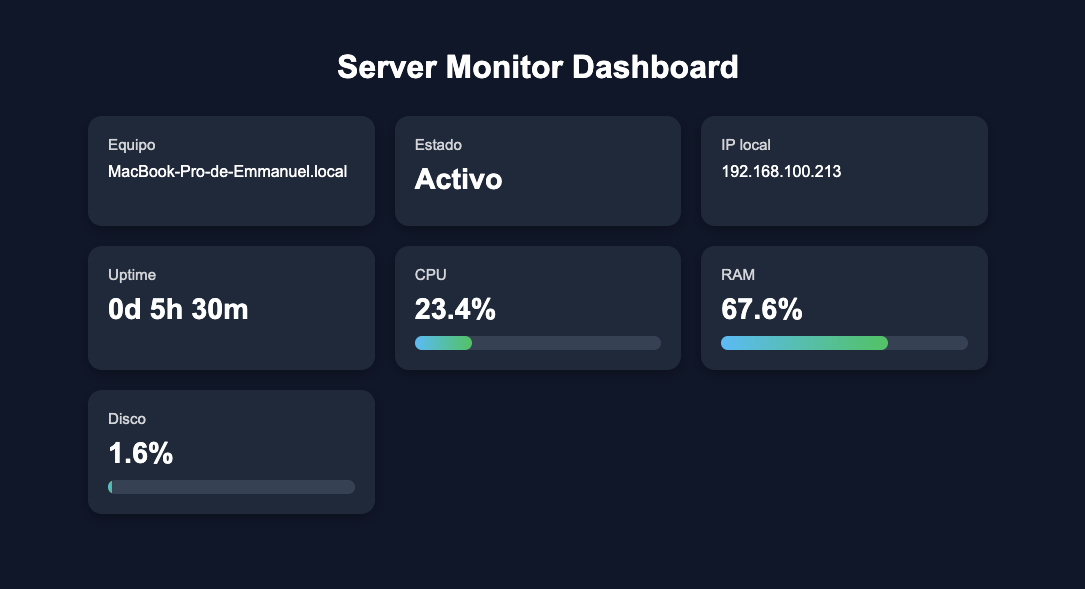
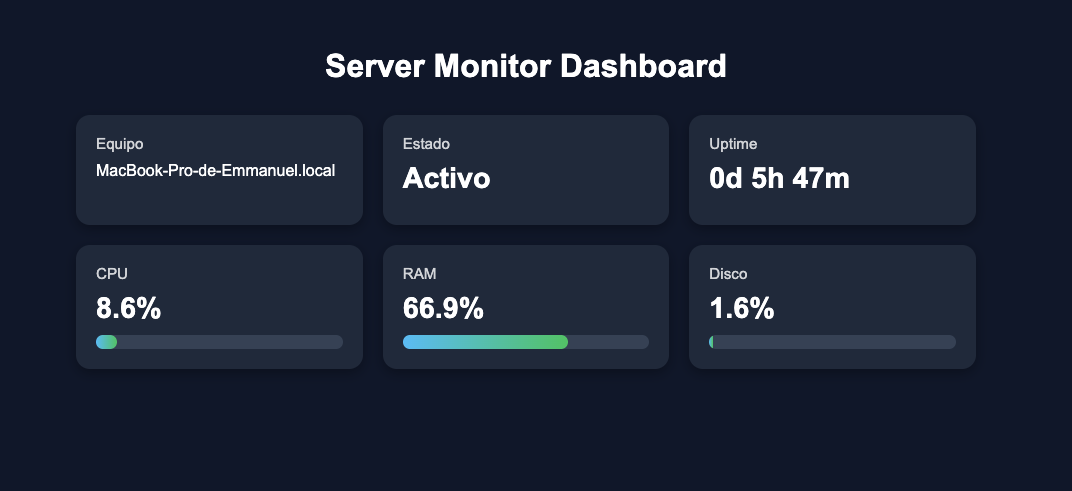
Update dashboard UI and add clean preview image

diff --git a/templates/index.html b/templates/index.html
@@ -86,12 +86,7 @@
         <div id="status" class="value">Cargando...</div>
       </div>
 
-      <div class="card">
-        <div class="label">IP local</div>
-        <div id="ip" class="value small">Cargando...</div>
-      </div>
-
-      <div class="card">
+       <div class="card">
         <div class="label">Uptime</div>
         <div id="uptime" class="value">Cargando...</div>
       </div>
@@ -129,8 +124,7 @@
 
       document.getElementById("hostname").textContent = data.hostname;
       document.getElementById("status").textContent = data.status;
-      document.getElementById("ip").textContent = data.ip;
-      document.getElementById("uptime").textContent = data.uptime;
+       document.getElementById("uptime").textContent = data.uptime;
 
       document.getElementById("cpu").textContent = data.cpu + "%";
       document.getElementById("ram").textContent = data.ram + "%";

diff --git a/app.py b/app.py
@@ -37,7 +37,6 @@ def metrics():
         "ram": psutil.virtual_memory().percent,
         "disk": psutil.disk_usage('/').percent,
         "status": "Activo",
-        "ip": get_local_ip(),
         "uptime": format_uptime(uptime_seconds)
     })
 
